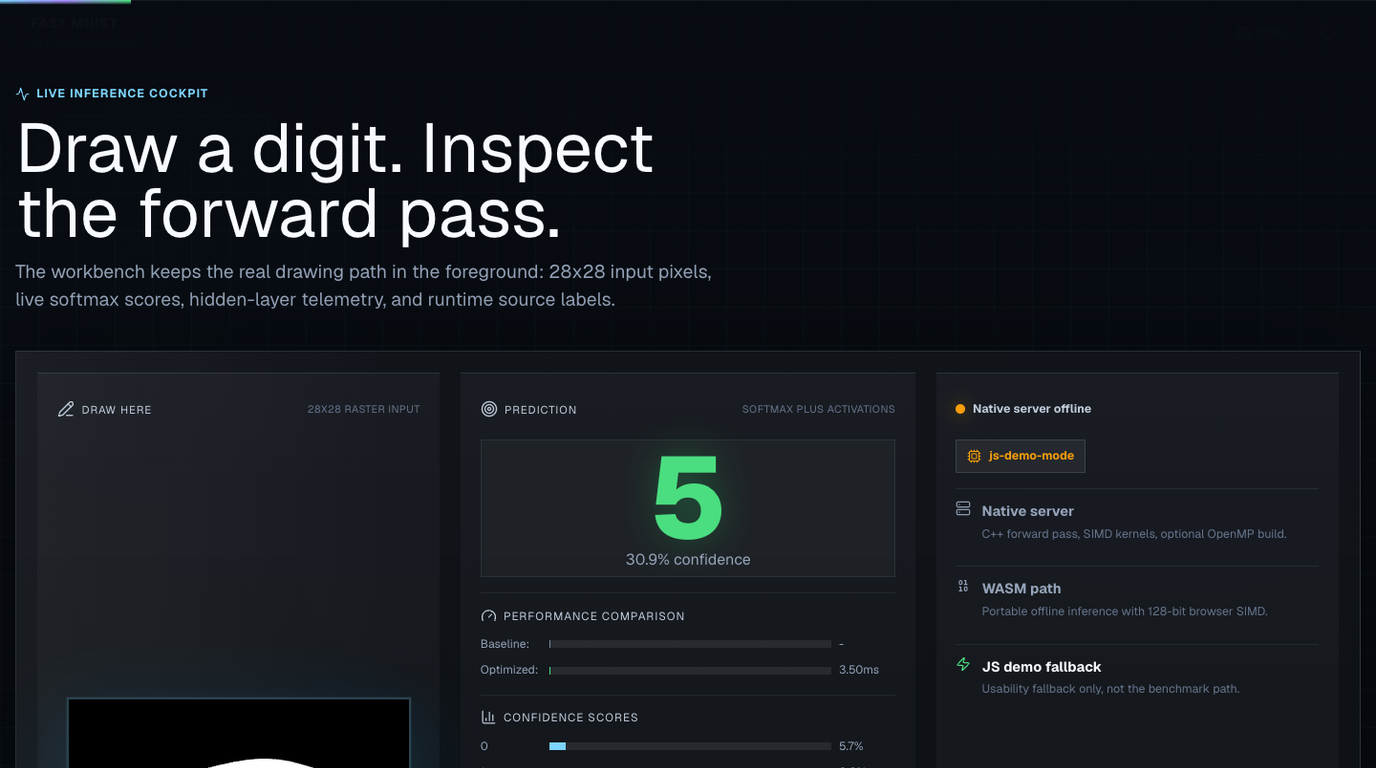
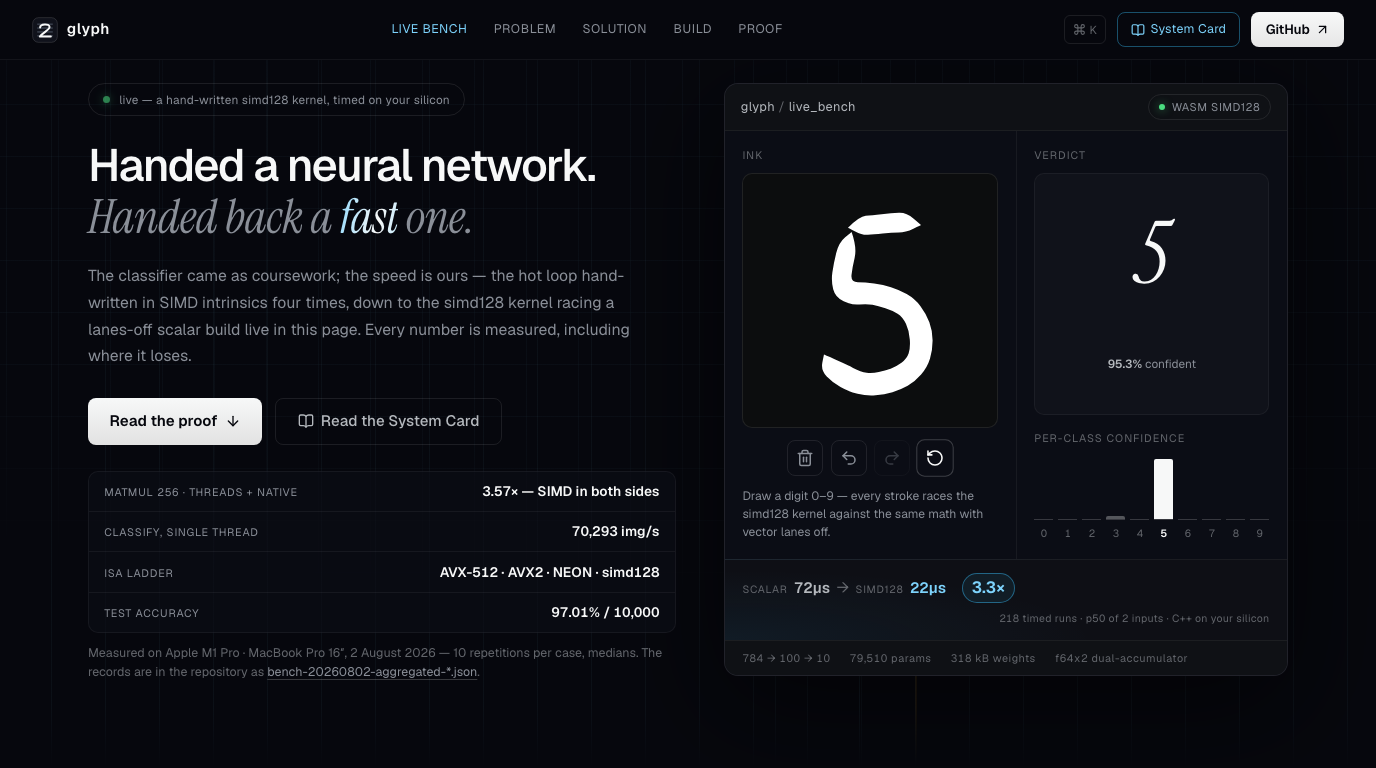
fix(data): glyph's strongest artifact was a picture of a deleted product
The `real-screenshot` plate on the glyph case file was a LOCAL Playwright
capture of ClassifierWorkbench under a masthead reading "FAST MNIST" — a
component deleted when the landing page was rebuilt (glyph 2026-08-13) and a
brand retired in the 2026 rename. The site's strongest evidence class was
carrying a picture of a product that no longer exists, under a name that no
longer exists, and its boundary field disclosed an inference server being
offline rather than anything a reader could check.

It is now a capture of the deployed page at getglyph.vercel.app at 1376x768,
taken after a real classification through the wasm simd128 kernel. The
boundary changed rather than disappeared: it now separates the ledger's
committed 2 August run from the two numbers that were actually measured in
the capturing browser.

The plate also LEAVES scripts/asset-truth/promote-proof-assets.mjs, following
taskflow and automl: its source is a browser screenshot of a deployed site,
not a Playwright artifact in this repo, and re-running assets:promote-proof
with the old entry would silently overwrite it with the retired-brand
workbench again. The entry is kept as a comment because it is the only record
of where the previous plate came from.

Three smaller glyph corrections in the same file:
- the architecture "demo" node said "React demo / Interactive visualization"
  and pointed at the deleted component; it is "Live bench / In-browser
  classify + timing", which is what the fold does now.
[…]

diff --git a/src/lib/data/projectCaseStudies.ts b/src/lib/data/projectCaseStudies.ts
@@ -2674,7 +2674,7 @@ export const projectCaseStudies: ProjectCaseStudy[] = [
     ],
     architecture: {
       summary:
-        "Input preprocessing feeds C++ matrix kernels and OpenMP parallel paths, then the React demo displays inference behavior and benchmark proof.",
+        "Input preprocessing feeds C++ matrix kernels and OpenMP parallel paths, then the browser bench runs the same kernels on the visitor’s own ink and times them against a lanes-off scalar build.",
       /* One trunk, digits to demo; kernels, OpenMP and the benchmark
          suite all join at the network — proof included. */
       flow: [["input"], ["model"], ["demo"]],
@@ -2704,9 +2704,15 @@ export const projectCaseStudies: ProjectCaseStudy[] = [
           kind: "ml",
         },
         {
+          /* "Interactive visualization" pointed at ClassifierWorkbench, which
+             was deleted with the rest of the unreachable features/experience
+             tree when the landing page was rebuilt (glyph, 2026-08-13). The
+             live bench is the fold now, not a component below it, and it
+             times the simd128 kernel against a lanes-off scalar build on the
+             visitor's own machine rather than only displaying a result. */
           id: "demo",
-          label: "React demo",
-          detail: "Interactive visualization",
+          label: "Live bench",
+          detail: "In-browser classify + timing",
           kind: "client",
         },
         {
@@ -2723,11 +2729,21 @@ export const projectCaseStudies: ProjectCaseStudy[] = [
         /* "prediction output" hid three delivery paths, and which one
            answers is the interesting part of this project. The web app
            declares them itself — `web/src/api/predict.ts` types
-           `PredictionSource = 'server' | 'browser-wasm' | 'browser-js'`:
+           `PredictionSource = 'server' | 'browser-wasm' | 'browser-js-demo'`:
            the httplib server at :8080 is preferred, the Emscripten build
            is the offline fallback, and a plain-JS classifier is the last
            resort. The portfolio's own ¶06 station runs the middle one —
-           the 45.9 KB wasm it ships is this same model. (2026-08-02.) */
+           the 45.9 KB wasm it ships is this same model. (2026-08-02.)
+
+           Two corrections, 2026-08-14. The third literal is
+           `'browser-js-demo'`, not `'browser-js'` — it was transcribed a
+           character short here, and glyph labels that path in its own UI as
+           "js demo fallback" precisely so a visitor can tell. And the
+           45.9 KB is THIS repository's vendored copy (46,960 B, built
+           31 July); glyph's current module is 43,751 B. The station's own
+           caveat at src/run/index.html already discloses that the wasm in
+           that tab predates the fourth kernel, so the figure is right about
+           what ¶06 serves and should not be "corrected" to glyph's. */
         {
           from: "model",
           to: "demo",
@@ -2910,7 +2926,7 @@ export const projectCaseStudies: ProjectCaseStudy[] = [
     ],
     notClaiming: [
       "No AVX-512 inference-speedup claim survives here — see the corrections register below. The verified number is OpenMP’s 3.5× over the -O3 baseline at dot 256; the SIMD is in both builds and earns none of it.",
-      "The workbench screenshot was captured with the native inference server offline, so benchmark claims come from committed benchmark data, not the live page.",
+      "The landing screenshot is the deployed page, but its ledger figures are the committed 2 August 2026 benchmark run rather than anything measured in that capture; only the scalar-vs-simd128 timing and the verdict were live in the capturing browser.",
       "The two-layer MLP itself is not claimed here — it is a course network that already existed, and this file is about what was done to it. The SIMD kernels were written with Shree Chaturvedi on a two-person project; the product, the landing page and the benchmark discipline are mine.",
     ],
     corrections: [
@@ -2976,13 +2992,34 @@ export const projectCaseStudies: ProjectCaseStudy[] = [
       },
     ],
     artifacts: [
+      /* Re-shot 2026-08-14, and the reason is the strongest label on this
+         page. Stamped `real-screenshot`, this plate was a LOCAL capture of a
+         three-panel workbench whose masthead read "FAST MNIST" — a name
+         retired in the 2026 rename — and whose UI (ClassifierWorkbench,
+         PredictionResult) was deleted when the landing page was rebuilt. So
+         the site's strongest evidence class was carrying a picture of a
+         product that no longer existed under a brand that no longer existed.
+         It is now a capture of the deployed page at getglyph.vercel.app,
+         taken after a real classification through the wasm simd128 kernel,
+         which is why the boundary line changed rather than disappeared: the
+         old one disclosed a server that was off, this one names what the
+         figures in the frame are and are not.
+
+         Like the taskflow and automl plates before it, this one has also
+         LEFT scripts/asset-truth/promote-proof-assets.mjs — its source is a
+         browser screenshot of a deployed site, not a Playwright artifact in
+         this repository, and re-running `assets:promote-proof` with the old
+         entry in place would silently overwrite it with the retired-brand
+         workbench again. */
       {
         type: "real-screenshot",
-        label: "Local React workbench screenshot",
+        label: "Deployed landing screenshot",
         href: withBasePath("/images/projects/mnist.webp"),
-        source: "local web workbench capture",
-        boundary: "native inference server offline during capture",
-        date: "2026-06",
+        source:
+          "getglyph.vercel.app, captured at 1376×768 after a live classification",
+        boundary:
+          "the ledger figures are the committed 2 August 2026 run; only the scalar-vs-simd128 timing and the verdict in the frame were measured live in the capturing browser",
+        date: "2026-08",
       },
       /* "Vector project asset" stood here and was the clearest case of the
          lot — 2.5 KB of stock social-card template, one corner-to-corner

diff --git a/tests/playwright/case-file-fixtures.ts b/tests/playwright/case-file-fixtures.ts
@@ -159,7 +159,7 @@ export const EXPECTED_PROOF_ARTIFACTS = {
   // test that is really asserting "the coverage receipt is on the page".
   visualAssistCoverage: "71 tests cover models and utilities",
   visualAssistCoreMlBoundary: "no custom Core ML model file was present",
-  fastMnistScreenshot: "Local React workbench screenshot",
+  fastMnistScreenshot: "Deployed landing screenshot",
   fastMnistRelease: "v1.0.0 release",
   fastMnistBenchmark: "Benchmark evidence",
   // SIMD-attribution reword (2026-07-18): honest form per BENCHMARKS.md.

diff --git a/scripts/archive/FIGURES.md b/scripts/archive/FIGURES.md
@@ -234,7 +234,12 @@ fig. 1, fig. 2 and the ledger already say.
   call. There are two left, and the sentence used to say three:
   `automl.webp` was retired on 2026-08-07 with its case-file plate, and
   `taskflow.png` stopped being a local mock-login capture the same day —
-  it is now the production interior, signed in as the demo account. That
-  leaves `mnist.webp`, whose boundary field still says the native
-  inference server was offline during capture, and which is the one plate
-  here that is still a local workbench shot.
+  it is now the production interior, signed in as the demo account.
+  `mnist.webp` followed on 2026-08-14: it was the last local capture here,
+  a Playwright shot of a ClassifierWorkbench that no longer exists under a
+  "FAST MNIST" masthead retired in the rename, and it is now the deployed
+  page at getglyph.vercel.app after a real classification. Its boundary
+  field changed rather than disappeared — the old one disclosed a server
+  that was off, the new one separates the ledger's committed figures from
+  the two numbers actually measured in the capturing browser. No plate on
+  this shelf is a local capture any more.
